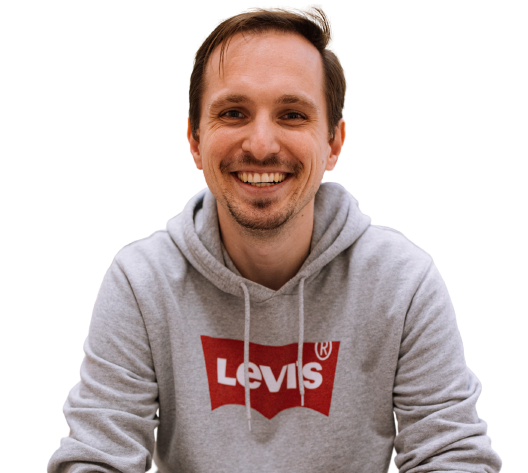
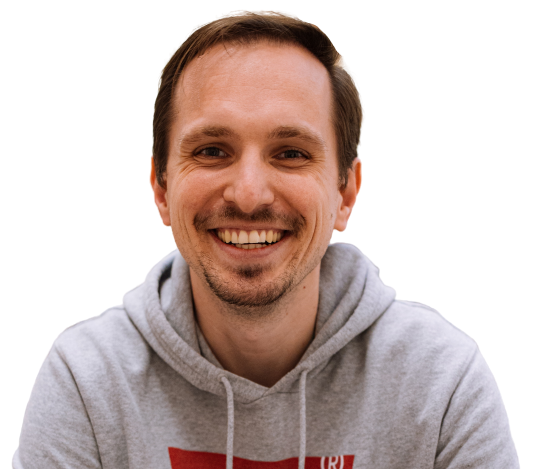
changing colors and fixing responsible view

diff --git a/src/components/navbar/Navbar.scss b/src/components/navbar/Navbar.scss
@@ -3,7 +3,7 @@
 .navbar {
   width: 100%;
   height: 70px;
-  background-color: white;
+  background-color: $secondaryFontColor;
   color: $mainColor;
   position: fixed;
   top: 0;
@@ -27,8 +27,6 @@
         text-decoration: none;
         color: inherit;
         margin-right: 40px;
-        // font-family: "Montserrat", sans-serif;
-        // font-family: "Righteous", cursive;
         font-family: "Staatliches", cursive;
       }
     }
@@ -55,19 +53,19 @@
 
   &.active {
     background-color: $mainColor;
-    color: white;
+    color: $secondaryFontColor;
 
     .hamburguer {
       span {
         &:first-child {
-          background-color: white;
+          background-color: $secondaryFontColor;
           transform: rotate(45deg);
         }
         &:nth-child(2) {
           opacity: 0;
         }
         &:last-child {
-          background-color: white;
+          background-color: $secondaryFontColor;
           transform: rotate(-45deg);
         }
       }

diff --git a/src/components/contacts/Contacts.scss b/src/components/contacts/Contacts.scss
@@ -1,7 +1,7 @@
 @import "../../global.scss";
 
 .contacts {
-  background-color: white;
+  background-color: $secondaryFontColor;
   color: $mainColor;
   display: flex;
   flex-direction: column;
@@ -153,13 +153,13 @@
       }
 
       h2 {
-        margin-top: 10px;
-        margin-bottom: 20px;
+        margin: 10px 0 20px 0;
         overflow: hidden;
-        color: $mainColor;
+        color: $secondaryFontColor;
 
         @include mobile {
           font-size: 18px;
+          margin: 5px 0;
         }
       }
 
@@ -214,7 +214,7 @@
           width: 150px;
           height: 30px;
           color: white;
-          background-color: crimson;
+          background-color: $bgColor;
           border: none;
           border-radius: 10px;
           font-weight: 500;
@@ -230,7 +230,7 @@
   }
 
   .replyMessage {
-    background-color: $mainColor;
+    background-color: green;
     color: white;
     font-size: 16px;
     font-weight: 500;

diff --git a/src/components/projects/Projects.scss b/src/components/projects/Projects.scss
@@ -5,7 +5,7 @@
   display: flex;
   flex-direction: column;
   align-items: center;
-  color: white;
+  color: $secondaryFontColor;
 
   @include mobile {
     justify-content: space-between;
@@ -32,7 +32,7 @@
 
   h1 {
     font-size: 50px;
-    color: #fff;
+    color: $secondaryFontColor;
 
     @include mobile {
       font-size: 30px;
@@ -146,7 +146,7 @@
         }
 
         &.right {
-          background-color: white;
+          background-color: $secondaryFontColor;
           border-radius: 50%;
           height: 30px;
           font-size: 30px;
@@ -155,7 +155,7 @@
           transition: all 2s ease;
 
           &.right:hover {
-            color: #fff;
+            color: $secondaryFontColor;
             background-color: black;
           }
 
@@ -194,7 +194,7 @@
       }
 
       h4 {
-        color: white;
+        color: $secondaryFontColor;
         font-weight: 200;
         padding: 0 2px;
 

diff --git a/src/components/aboutMe/AboutMe.scss b/src/components/aboutMe/AboutMe.scss
@@ -1,16 +1,16 @@
 @import "../../global.scss";
 
 .aboutMe {
-  background-color: white;
+  background-color: $secondaryFontColor;
   display: flex;
   flex-direction: column;
   align-items: center;
   justify-content: space-around;
-  color: #6441a5;
+  color: $bgColor;
 
   h1 {
     font-size: 50px;
-    color: #6441a5;
+    color: $bgColor;
 
     @include mobile {
       font-size: 30px;

diff --git a/src/components/intro/Intro.scss b/src/components/intro/Intro.scss
@@ -31,7 +31,7 @@
       float: right;
       transform: rotate(25deg);
       overflow: hidden;
-      margin-top: 30%;
+      margin-top: 20%;
 
       @include mobile {
         align-items: flex-start;
@@ -41,8 +41,8 @@
       }
 
       img {
-        height: 90%;
         transform: rotate(-25deg);
+        margin-top: 30%;
 
         @include mobile {
           margin-top: 5%;

diff --git a/src/components/contacts/Contacts.jsx b/src/components/contacts/Contacts.jsx
@@ -37,7 +37,7 @@ function Contacts() {
       <h1>Contacts</h1>
       <div className="container">
         <div className="left">
-          <h2>Check my social Media Media and my CV</h2>
+          <h2>Check my Social Media and my CV</h2>
           <div className="leftContainer">
             <div className="linkedIn">
               <a

diff --git a/src/components/intro/Intro.jsx b/src/components/intro/Intro.jsx
@@ -11,7 +11,7 @@ function Intro() {
       backDelay: 1500,
       backSpeed: 60,
       showCursor: true,
-      strings: ["Full Stack Developer"],
+      strings: ["Jr. Full Stack Developer"],
     });
   }, []);
   return (

diff --git a/src/global.scss b/src/global.scss
@@ -1,6 +1,6 @@
-$mainColor: #6441a5;
-$bgColor: #6a4df0;
-$mainFontColor: #90ee90;
+$mainColor: #3e497a;
+$bgColor: #21325e;
+$mainFontColor: #02a676;
 $secondaryFontColor: #fff;
 
 $width: 768px;

diff --git a/src/components/menu/Menu.scss b/src/components/menu/Menu.scss
@@ -24,7 +24,7 @@
     list-style: none;
     font-size: 30px;
     font-weight: 200;
-    color: white;
+    color: $secondaryFontColor;
     width: 60%;
 
     li {
